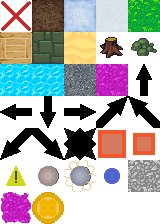
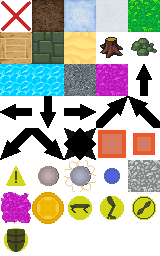
Render a warning symbol indicating the type of wave

diff --git a/src/renderers/pixiRenderer/tilemap/alertRenderer.ts b/src/renderers/pixiRenderer/tilemap/alertRenderer.ts
@@ -1,4 +1,5 @@
 import { Container, Graphics, LINE_CAP, Loader, Sprite } from "pixi.js";
+import { EntityType } from "../../../data/entity/constants";
 import { GameEvent } from "../../../data/events";
 import EventSystem from "../../../data/eventSystem";
 import SpawnAlert from "../../../data/util/spawnAlert";
@@ -8,6 +9,12 @@ import { UI } from "../layer";
 
 class AlertRenderer {
   static displayDuration = 20 * 1000;
+  static enemySpriteMap: Map<EntityType, string> = new Map([
+    [EntityType.Runner, AtlasTile.Runner],
+    [EntityType.Slime, AtlasTile.Regular],
+    [EntityType.Tank, AtlasTile.Tank],
+    [EntityType.Flier, AtlasTile.Flier],
+  ]);
 
   private container: Container;
   private alertSymbols: Sprite[] = [];
@@ -26,12 +33,12 @@ class AlertRenderer {
   enable() {
     this.permanent = true;
     this.container.alpha = 1;
-    this.time = AlertRenderer.DISPLAY_DURATION;
+    this.time = AlertRenderer.displayDuration;
   }
 
   disable() {
     this.permanent = false;
-    this.time = AlertRenderer.DISPLAY_DURATION;
+    this.time = AlertRenderer.displayDuration;
   }
 
   private reset() {
@@ -71,15 +78,33 @@ class AlertRenderer {
         this.loader.resources[ATLAS].textures![AtlasTile.Alert]
       );
       symbol.anchor.set(0.5);
+      symbol.scale.set(2);
+      this.alertSymbols.push(symbol);
 
+      const container = new Container();
       const direction = (alert.getCenter() * Math.PI) / 180;
-      symbol.position.set(
+      container.position.set(
         (x + Math.cos(direction) * 9.2) * SCALE,
         (y + Math.sin(direction) * 9.2) * SCALE
       );
-      this.alertSymbols.push(symbol);
+      container.addChild(symbol);
 
-      alertContainer.addChild(range, symbol);
+      const unit = alert.getUnit();
+      if (unit) {
+        console.log(direction);
+        const enemy = new Sprite(
+          this.loader.resources[ATLAS].textures![
+            AlertRenderer.enemySpriteMap.get(unit)!
+          ]
+        );
+        enemy.position.set(
+          16 - (alert.getCenter() > 270 || alert.getCenter() < 90 ? 64 : 0),
+          8
+        );
+        container.addChild(enemy);
+      }
+
+      alertContainer.addChild(range, container);
       this.container.addChild(alertContainer);
     });
   }
@@ -91,7 +116,7 @@ class AlertRenderer {
 
     if (
       !this.permanent &&
-      (this.time > AlertRenderer.DISPLAY_DURATION || isStarted)
+      (this.time > AlertRenderer.displayDuration || isStarted)
     ) {
       this.container.alpha -= dt / 500;
     }

diff --git a/src/renderers/pixiRenderer/atlas.ts b/src/renderers/pixiRenderer/atlas.ts
@@ -34,6 +34,10 @@ export enum AtlasTile {
   Bridge = "atlas5.png",
   None = "atlas0.png",
   Coin = "atlas31.png",
+  Runner = "atlas32.png",
+  Regular = "atlas33.png",
+  Flier = "atlas34.png",
+  Tank = "atlas35.png",
 }
 
 export const TILE_TO_ATLAS_MAP: Partial<Record<TileType, AtlasTile>> = {
